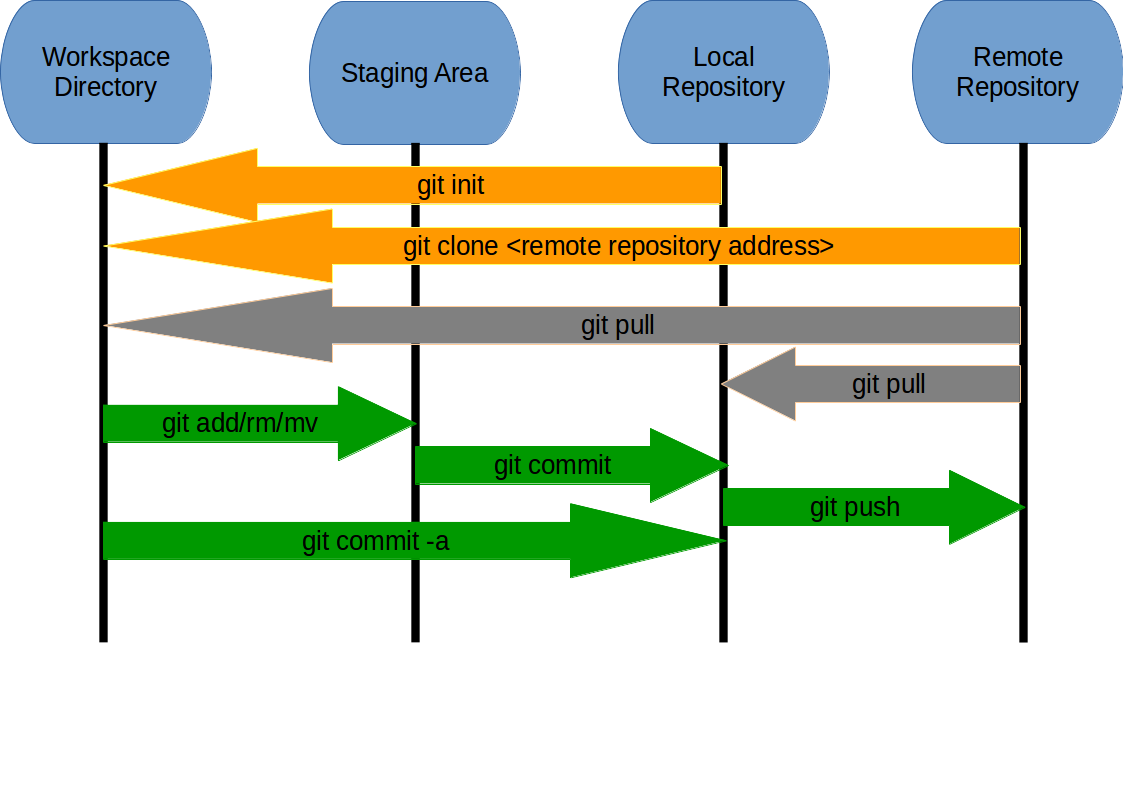
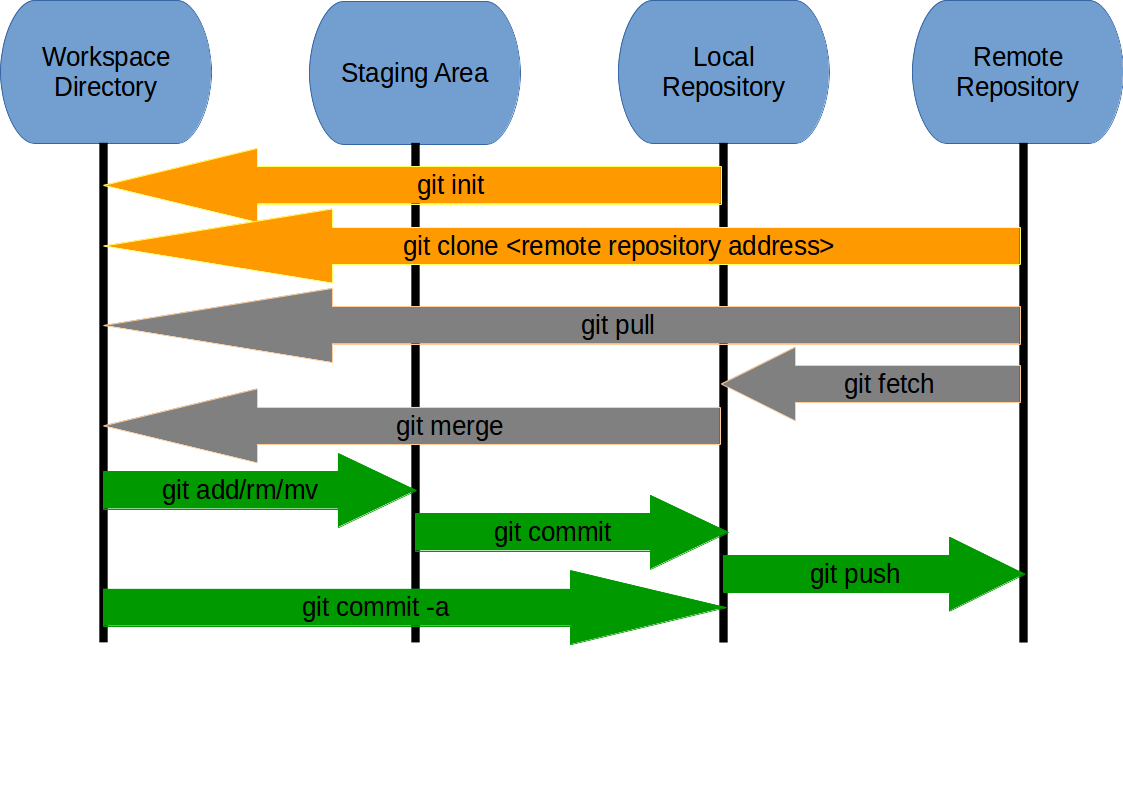
git/readme & git/index.html edited

Changed region(s): [[0.0935, 0.4836, 0.9038, 0.8161], [0.748, 0.4534, 0.8415, 0.5139]]

diff --git a/git/index.html b/git/index.html
@@ -88,7 +88,7 @@
     </div>
 
     <div id="git" class="step slide" data-x="-1000" data-y="-750">
-        <q><img src="images/git_logo.png" height="75px">  Git</q>
+        <q><img src="images/git_logo.png" height="50px">  Git</q>
         <hr>
         
         <ul>

diff --git a/git/css/style.css b/git/css/style.css
@@ -115,5 +115,5 @@ li:before {
     font-size: 50px;
     line-height: 60px;
 
-    margin-top: 50px;
+    margin-top: 30px;
 }

diff --git a/git/Readme.md b/git/Readme.md
@@ -1,17 +1,76 @@
 # Git Implementation
 
+## Git Installation & Configuration
 
-`sudo apt-get install git`
+* to install `git`: `sudo apt-get install git`
+> for more detail please visit [this page](https://git-scm.com/book/en/v2/Getting-Started-Installing-Git).
 
-`git config --global user.name YOURNAME`
-`git config --global user.email EMAIL`
-to check:
-`git config --global user.name`
-`git config --global user.email`
+* after installing git, you need the specify your email and name to git.
 
-`git init`
-`git status`
+> It is necessary because the version (commit) recorded with this.
+```
+git config --global user.name YOURNAME
+git config --global user.email EMAIL
+```
 
-`git add`
-`git commit -m`
-`git log`
+> to check:
+
+```
+git config --global user.name
+git config --global user.email
+```
+
+* before continue you need to know getting help:
+```
+git [command] --help (e.g: git config --help)
+git help [command] (e.g: git help config)
+```
+
+---
+
+## Git Commands:
+
+1. Use case: Clone Repository
+* to clone Remote Repository to Working Directory: `git clone $url_of_remote_repository `
+* change file/s.
+* to check any changes in your git chain, first change your directory to **Working Directory** (`cd $repositoryname`): `git status`
+* to add all changed files from **Working Directory** to **Staging Area**: `git add .`
+* to copy your files from **Staging Area** to **Local Repository** : `git commit -m "$message"`
+* to send changes from **Local Repository** to **Remote Repository**: `git push $remotename $branchname`
+    > git push origin master
+* after a while
+* to get differences from **Remote Repository** to your **Working Directory**: `git pull $remotename $branchname`
+    > git pull origin master
+* 
+
+
+2. Use case: From Scratch
+* to create git **Working Directory**: `git init`
+* to check any changes in your git chain: `git status`
+* to add a file to your **Staging Area**: `git add $filename`
+    > to add all files from **Working Directory** to **Staging Area**: `git add .` or `git add *` or `git add --all`
+
+* to copy your files from **Staging area** to **Local Repository** : `git commit -m "$message"`
+    > to see the history of your commit: `git log`
+
+* to send changes from **Local Repository** to **Remote Repository**: `git push $remotename $branchname`
+    > for example: `git push origin master`
+
+    > origin: the name of your remote repository
+
+    > If your project has currently no remote (repository), you need to add one before `git push` command and use with `-u` parameter: `git remote add origin $url_of_remote_repository`
+
+    > and then: `git push -u origin master`
+
+!!! Create new Remote Repository on GitLab to see recommended commands.
+
+#### Git Cheat Sheet:
+![Git Cheat Sheet](images/Git%20Cheat%20Sheet.png)
+
+---
+
+### Usefull Links:
+
+* [Codecademy](https://www.codecademy.com/learn/learn-git)
+* [Türkçe Git 101](https://www.gitbook.com/book/aliozgur/git101/details)
+* [Git 101](https://www.slideshare.net/phpguru/git-101-31908275)
